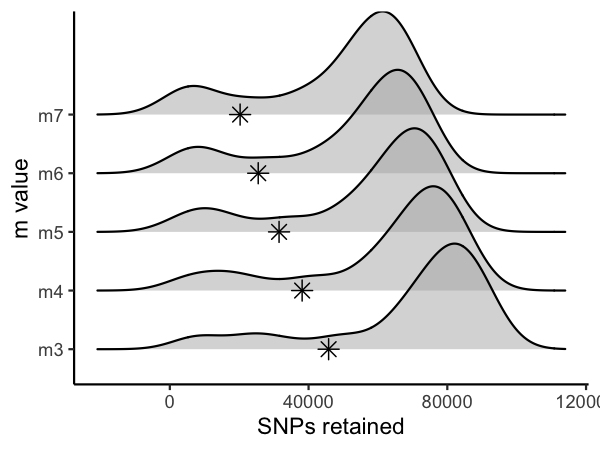
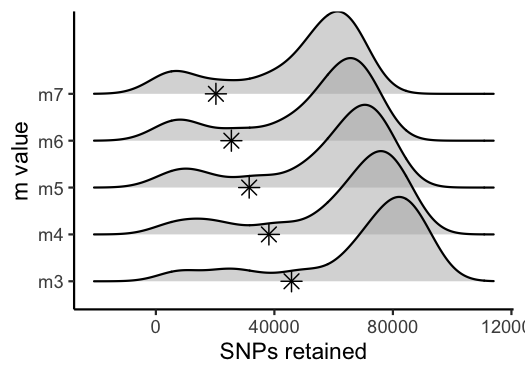
lower image size for CRAN

diff --git a/docs/index.html b/docs/index.html
@@ -70,7 +70,10 @@
   </a>
   <ul class="dropdown-menu" role="menu">
 <li>
-      <a href="articles/optimize_denovo.html">Optimize denovo STACKS pipeline</a>
+      <a href="articles/optimize_denovo.html">Optimize denovo STACKS pipeline for Hipposideros bats</a>
+    </li>
+    <li>
+      <a href="articles/reproducible.vignette.html">Reproducible example</a>
     </li>
   </ul>
 </li>
@@ -172,7 +175,7 @@
 <span class="fu"><a href="reference/vis_depth.html">vis_depth</a></span><span class="op">(</span>output <span class="op">=</span> <span class="va">m.out</span><span class="op">)</span>
 <span class="co">#&gt; [1] "Visualize how different values of m affect average depth in each sample"</span>
 <span class="co">#&gt; Picking joint bandwidth of 9.53</span></pre></div>
-<p><img src="reference/figures/unnamed-chunk-5-1.png" width="100%" height="100%" style="display: block; margin: auto;"></p>
+<p><img src="reference/figures/unnamed-chunk-5-1.png" width="65%" height="65%" style="display: block; margin: auto;"></p>
 <div class="sourceCode"><pre class="downlit">
 <span class="co">#visualize the effect of varying m on the number of SNPs retained</span>
 <span class="fu"><a href="reference/vis_snps.html">vis_snps</a></span><span class="op">(</span>output <span class="op">=</span> <span class="va">m.out</span>, stacks_param <span class="op">=</span> <span class="st">"m"</span><span class="op">)</span>
@@ -180,7 +183,7 @@
 <span class="co">#&gt; Density plot shows the distribution of the number of SNPs retained in each sample,</span>
 <span class="co">#&gt; while the asterisk denotes the total number of SNPs retained at an 80% completeness cutoff.</span>
 <span class="co">#&gt; Picking joint bandwidth of 7190</span></pre></div>
-<p><img src="reference/figures/unnamed-chunk-5-2.png" width="100%" height="100%" style="display: block; margin: auto;"></p>
+<p><img src="reference/figures/unnamed-chunk-5-2.png" width="65%" height="65%" style="display: block; margin: auto;"></p>
 <div class="sourceCode"><pre class="downlit">
 <span class="co">#visualize the effect of varying m on the number of loci retained</span>
 <span class="fu"><a href="reference/vis_loci.html">vis_loci</a></span><span class="op">(</span>output <span class="op">=</span> <span class="va">m.out</span>, stacks_param <span class="op">=</span> <span class="st">"m"</span><span class="op">)</span>
@@ -188,7 +191,7 @@
 <span class="co">#&gt; Density plot shows the distribution of the number of loci retained in each sample,</span>
 <span class="co">#&gt; while the asterisk denotes the total number of loci retained at an 80% completeness cutoff. The optimal value is denoted by red color.</span>
 <span class="co">#&gt; Picking joint bandwidth of 3420</span></pre></div>
-<p><img src="reference/figures/unnamed-chunk-5-3.png" width="100%" height="100%" style="display: block; margin: auto;"></p>
+<p><img src="reference/figures/unnamed-chunk-5-3.png" width="65%" height="65%" style="display: block; margin: auto;"></p>
 <div class="sourceCode"><pre class="downlit">
 <span class="co">#3 is the optimal m value, and will be used next to optimize M</span></pre></div>
 </div>
@@ -208,7 +211,7 @@
 <span class="va">id=</span>1
 <span class="kw">for</span> <span class="ex">sample</span> in <span class="va">$files</span>
 <span class="kw">do</span>
-    <span class="ex">/home/d669d153/work/stacks-2.41/ustacks</span> -f <span class="va">${sample}</span>.fq.gz -o stacks_bigM<span class="va">$i</span> -i <span class="va">$id</span> -m 3 -M <span class="va">$i</span> -p 15
+    <span class="ex">/home/path/to/stacks-2.41/ustacks</span> -f <span class="va">${sample}</span>.fq.gz -o stacks_bigM<span class="va">$i</span> -i <span class="va">$id</span> -m 3 -M <span class="va">$i</span> -p 15
     <span class="bu">let</span> <span class="st">"id+=1"</span>
 <span class="kw">done</span>
 <span class="ex">/home/path/to/stacks-2.41/cstacks</span> -P stacks_bigM<span class="va">$i</span> -M pipeline_popmap.txt -p 15
@@ -241,7 +244,7 @@
 <span class="co">#&gt; Density plot shows the distribution of the number of SNPs retained in each sample,</span>
 <span class="co">#&gt; while the asterisk denotes the total number of SNPs retained at an 80% completeness cutoff.</span>
 <span class="co">#&gt; Picking joint bandwidth of 6090</span></pre></div>
-<p><img src="reference/figures/unnamed-chunk-7-1.png" width="100%" height="100%" style="display: block; margin: auto;"></p>
+<p><img src="reference/figures/unnamed-chunk-7-1.png" width="65%" height="65%" style="display: block; margin: auto;"></p>
 <div class="sourceCode"><pre class="downlit">
 <span class="co">#visualize the effect of varying 'M' on the number of polymorphic loci retained</span>
 <span class="fu"><a href="reference/vis_loci.html">vis_loci</a></span><span class="op">(</span>output <span class="op">=</span> <span class="va">M.out</span>, stacks_param <span class="op">=</span> <span class="st">"M"</span><span class="op">)</span>
@@ -249,7 +252,7 @@
 <span class="co">#&gt; Density plot shows the distribution of the number of loci retained in each sample,</span>
 <span class="co">#&gt; while the asterisk denotes the total number of loci retained at an 80% completeness cutoff. The optimal value is denoted by red color.</span>
 <span class="co">#&gt; Picking joint bandwidth of 2920</span></pre></div>
-<p><img src="reference/figures/unnamed-chunk-7-2.png" width="100%" height="100%" style="display: block; margin: auto;"></p>
+<p><img src="reference/figures/unnamed-chunk-7-2.png" width="65%" height="65%" style="display: block; margin: auto;"></p>
 <div class="sourceCode"><pre class="downlit">
 
 <span class="co">#optimal value for this dataset is M = 2</span></pre></div>
@@ -269,7 +272,7 @@
 <span class="va">id=</span>1
 <span class="kw">for</span> <span class="ex">sample</span> in <span class="va">$files</span>
 <span class="kw">do</span>
-    <span class="ex">/home/d669d153/work/stacks-2.41/ustacks</span> -f <span class="va">${sample}</span>.fq.gz -o stacks_n<span class="va">$i</span> -i <span class="va">$id</span> -m 3 -M 2 <span class="va">$i</span> -p 15
+    <span class="ex">/home/path/to/stacks-2.41/ustacks</span> -f <span class="va">${sample}</span>.fq.gz -o stacks_n<span class="va">$i</span> -i <span class="va">$id</span> -m 3 -M 2 -p 15
     <span class="bu">let</span> <span class="st">"id+=1"</span>
 <span class="kw">done</span>
 <span class="ex">/home/path/to/stacks-2.41/cstacks</span> -n <span class="va">$i</span> -P stacks_n<span class="va">$i</span> -M pipeline_popmap.txt -p 15
@@ -296,7 +299,7 @@
 <span class="co">#&gt; Density plot shows the distribution of the number of SNPs retained in each sample,</span>
 <span class="co">#&gt; while the asterisk denotes the total number of SNPs retained at an 80% completeness cutoff.</span>
 <span class="co">#&gt; Picking joint bandwidth of 7420</span></pre></div>
-<p><img src="reference/figures/unnamed-chunk-9-1.png" width="100%" height="100%" style="display: block; margin: auto;"></p>
+<p><img src="reference/figures/unnamed-chunk-9-1.png" width="65%" height="65%" style="display: block; margin: auto;"></p>
 <div class="sourceCode"><pre class="downlit">
 <span class="co">#visualize the effect of varying n on the number of polymorphic loci retained</span>
 <span class="fu"><a href="reference/vis_loci.html">vis_loci</a></span><span class="op">(</span>output <span class="op">=</span> <span class="va">n.out</span>, stacks_param <span class="op">=</span> <span class="st">"n"</span><span class="op">)</span>
@@ -304,7 +307,7 @@
 <span class="co">#&gt; Density plot shows the distribution of the number of loci retained in each sample,</span>
 <span class="co">#&gt; while the asterisk denotes the total number of loci retained at an 80% completeness cutoff. The optimal value is denoted by red color.</span>
 <span class="co">#&gt; Picking joint bandwidth of 3230</span></pre></div>
-<p><img src="reference/figures/unnamed-chunk-9-2.png" width="100%" height="100%" style="display: block; margin: auto;"></p>
+<p><img src="reference/figures/unnamed-chunk-9-2.png" width="65%" height="65%" style="display: block; margin: auto;"></p>
 <div id="if-you-would-like-you-can-make-a-single-figure-simultaneously-illustrating-the-optimization-process-of-all-three-key-parameters" class="section level4">
 <h4 class="hasAnchor">
 <a href="#if-you-would-like-you-can-make-a-single-figure-simultaneously-illustrating-the-optimization-process-of-all-three-key-parameters" class="anchor"></a>If you would like, you can make a single figure simultaneously illustrating the optimization process of all three key parameters</h4>
@@ -354,7 +357,7 @@
 <span class="co">#&gt; Picking joint bandwidth of 2920</span>
 <span class="co">#&gt; Picking joint bandwidth of 7420</span>
 <span class="co">#&gt; Picking joint bandwidth of 3230</span></pre></div>
-<p><img src="reference/figures/unnamed-chunk-10-1.png" width="120%" height="120%" style="display: block; margin: auto;"></p>
+<p><img src="reference/figures/unnamed-chunk-10-1.png" width="100%" height="100%" style="display: block; margin: auto;"></p>
 <div class="sourceCode"><pre class="downlit">
 
 <span class="co">#Note: if you are an R whiz and prefer to make your own visualizations, the functions starting with 'optimize_' are designed</span>

diff --git a/docs/reference/optimize_bigM.html b/docs/reference/optimize_bigM.html
@@ -107,7 +107,10 @@ vis_loci() to visualize the optimal the M parameter for your dataset at the 'R80
   </a>
   <ul class="dropdown-menu" role="menu">
     <li>
-      <a href="../articles/optimize_denovo.html">Optimize denovo STACKS pipeline</a>
+      <a href="../articles/optimize_denovo.html">Optimize denovo STACKS pipeline for Hipposideros bats</a>
+    </li>
+    <li>
+      <a href="../articles/reproducible.vignette.html">Reproducible example</a>
     </li>
   </ul>
 </li>

diff --git a/docs/reference/optimize_m.html b/docs/reference/optimize_m.html
@@ -107,7 +107,10 @@ vis_loci() to visualize the optimal the m parameter for your dataset at the 'R80
   </a>
   <ul class="dropdown-menu" role="menu">
     <li>
-      <a href="../articles/optimize_denovo.html">Optimize denovo STACKS pipeline</a>
+      <a href="../articles/optimize_denovo.html">Optimize denovo STACKS pipeline for Hipposideros bats</a>
+    </li>
+    <li>
+      <a href="../articles/reproducible.vignette.html">Reproducible example</a>
     </li>
   </ul>
 </li>

diff --git a/docs/reference/optimize_n.html b/docs/reference/optimize_n.html
@@ -107,7 +107,10 @@ recognize which value optimizes the n parameter for your dataset at the 'R80' cu
   </a>
   <ul class="dropdown-menu" role="menu">
     <li>
-      <a href="../articles/optimize_denovo.html">Optimize denovo STACKS pipeline</a>
+      <a href="../articles/optimize_denovo.html">Optimize denovo STACKS pipeline for Hipposideros bats</a>
+    </li>
+    <li>
+      <a href="../articles/reproducible.vignette.html">Reproducible example</a>
     </li>
   </ul>
 </li>

diff --git a/docs/reference/vis_loci.html b/docs/reference/vis_loci.html
@@ -104,7 +104,10 @@ The function then uses ggplot2 to visualize the effect of the given stacks on th
   </a>
   <ul class="dropdown-menu" role="menu">
     <li>
-      <a href="../articles/optimize_denovo.html">Optimize denovo STACKS pipeline</a>
+      <a href="../articles/optimize_denovo.html">Optimize denovo STACKS pipeline for Hipposideros bats</a>
+    </li>
+    <li>
+      <a href="../articles/reproducible.vignette.html">Reproducible example</a>
     </li>
   </ul>
 </li>

diff --git a/docs/reference/vis_snps.html b/docs/reference/vis_snps.html
@@ -104,7 +104,10 @@ The function then uses ggplot2 to visualize the effect of the given stacks on th
   </a>
   <ul class="dropdown-menu" role="menu">
     <li>
-      <a href="../articles/optimize_denovo.html">Optimize denovo STACKS pipeline</a>
+      <a href="../articles/optimize_denovo.html">Optimize denovo STACKS pipeline for Hipposideros bats</a>
+    </li>
+    <li>
+      <a href="../articles/reproducible.vignette.html">Reproducible example</a>
     </li>
   </ul>
 </li>

diff --git a/docs/reference/vis_depth.html b/docs/reference/vis_depth.html
@@ -104,7 +104,10 @@ The function then uses ggplot2 to visualize the effect of m on depth." />
   </a>
   <ul class="dropdown-menu" role="menu">
     <li>
-      <a href="../articles/optimize_denovo.html">Optimize denovo STACKS pipeline</a>
+      <a href="../articles/optimize_denovo.html">Optimize denovo STACKS pipeline for Hipposideros bats</a>
+    </li>
+    <li>
+      <a href="../articles/reproducible.vignette.html">Reproducible example</a>
     </li>
   </ul>
 </li>

diff --git a/docs/reference/index.html b/docs/reference/index.html
@@ -102,7 +102,10 @@
   </a>
   <ul class="dropdown-menu" role="menu">
     <li>
-      <a href="../articles/optimize_denovo.html">Optimize denovo STACKS pipeline</a>
+      <a href="../articles/optimize_denovo.html">Optimize denovo STACKS pipeline for Hipposideros bats</a>
+    </li>
+    <li>
+      <a href="../articles/reproducible.vignette.html">Reproducible example</a>
     </li>
   </ul>
 </li>

diff --git a/docs/404.html b/docs/404.html
@@ -102,7 +102,10 @@
   </a>
   <ul class="dropdown-menu" role="menu">
     <li>
-      <a href="articles/optimize_denovo.html">Optimize denovo STACKS pipeline</a>
+      <a href="articles/optimize_denovo.html">Optimize denovo STACKS pipeline for Hipposideros bats</a>
+    </li>
+    <li>
+      <a href="articles/reproducible.vignette.html">Reproducible example</a>
     </li>
   </ul>
 </li>

diff --git a/docs/LICENSE-text.html b/docs/LICENSE-text.html
@@ -102,7 +102,10 @@
   </a>
   <ul class="dropdown-menu" role="menu">
     <li>
-      <a href="articles/optimize_denovo.html">Optimize denovo STACKS pipeline</a>
+      <a href="articles/optimize_denovo.html">Optimize denovo STACKS pipeline for Hipposideros bats</a>
+    </li>
+    <li>
+      <a href="articles/reproducible.vignette.html">Reproducible example</a>
     </li>
   </ul>
 </li>

diff --git a/docs/LICENSE.html b/docs/LICENSE.html
@@ -102,7 +102,10 @@
   </a>
   <ul class="dropdown-menu" role="menu">
     <li>
-      <a href="articles/optimize_denovo.html">Optimize denovo STACKS pipeline</a>
+      <a href="articles/optimize_denovo.html">Optimize denovo STACKS pipeline for Hipposideros bats</a>
+    </li>
+    <li>
+      <a href="articles/reproducible.vignette.html">Reproducible example</a>
     </li>
   </ul>
 </li>

diff --git a/docs/authors.html b/docs/authors.html
@@ -102,7 +102,10 @@
   </a>
   <ul class="dropdown-menu" role="menu">
     <li>
-      <a href="articles/optimize_denovo.html">Optimize denovo STACKS pipeline</a>
+      <a href="articles/optimize_denovo.html">Optimize denovo STACKS pipeline for Hipposideros bats</a>
+    </li>
+    <li>
+      <a href="articles/reproducible.vignette.html">Reproducible example</a>
     </li>
   </ul>
 </li>
